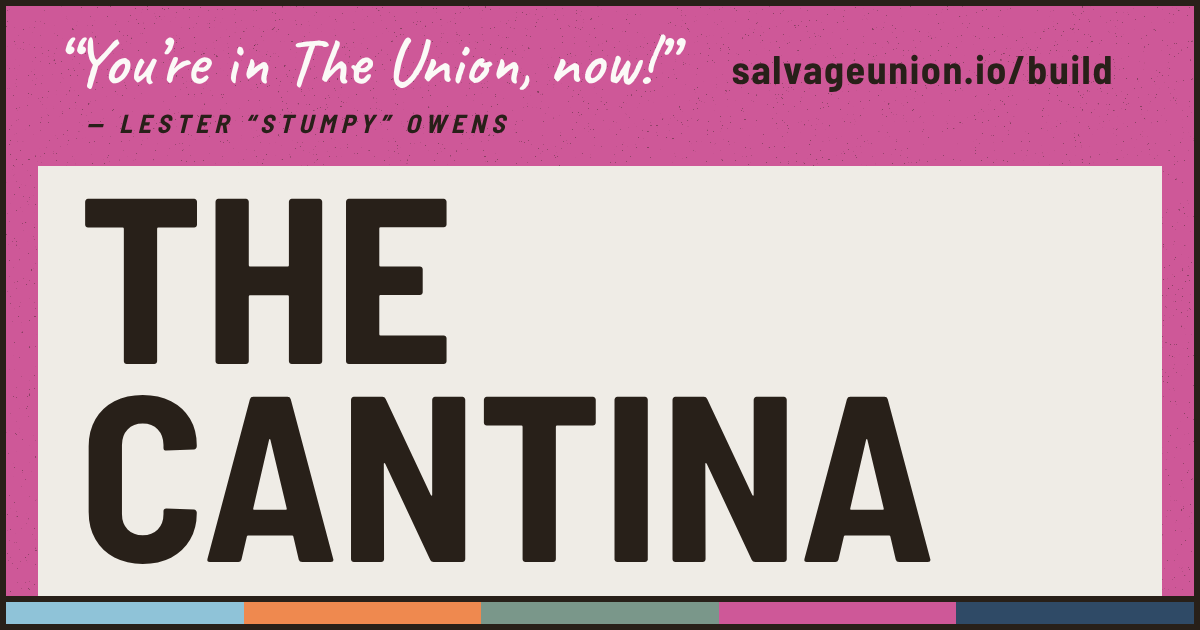
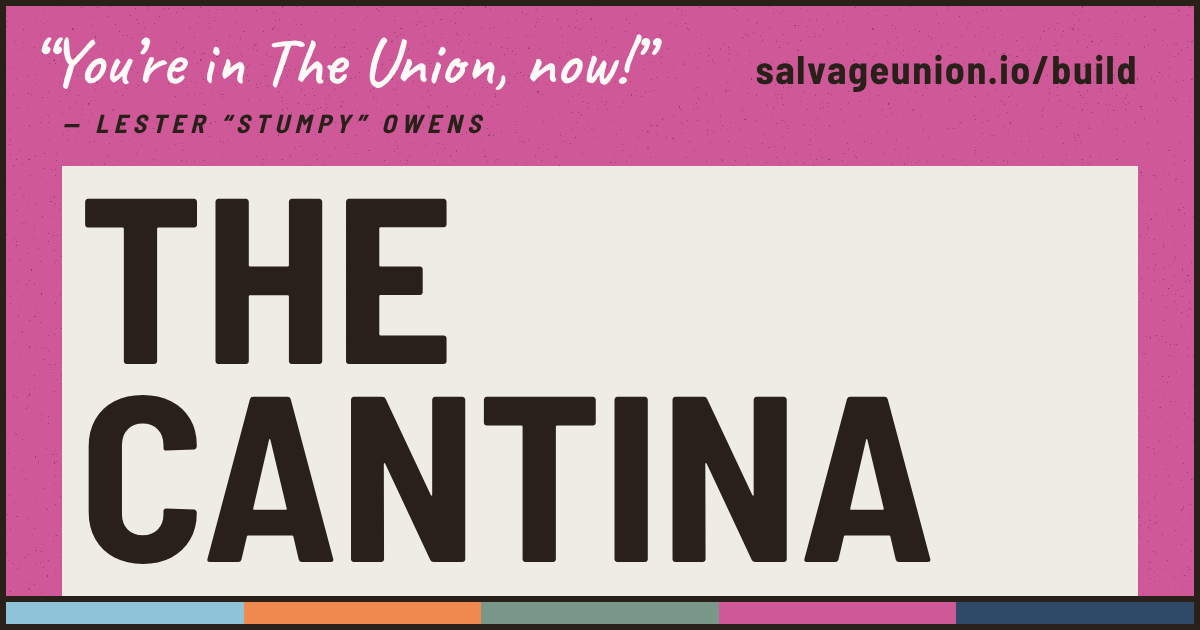
fix(srd,itun): brand previews share the entity previews' grid
OG_GUTTER and OG_NOTCH_INSET now live in ogCardText and both cards read
them: the notch, kicker, quote, credit and address sit on the same outer
edge as an entity card's notch, chips, cite and Union bar, and the
wordmark starts at the entity title's inset inside the notch.

Claude-Session: https://claude.ai/code/session_01K9NDAbp6WiFK1Lp9fWtFCp

diff --git a/packages/component-lib/src/components/compositions/BrandCard.tsx b/packages/component-lib/src/components/compositions/BrandCard.tsx
@@ -4,7 +4,7 @@ import { borderWidth, color, font, space, tracking, weight } from '../../design/
 import type { ChapterTone } from '../atoms/chapterBandColor'
 import { CHAPTER_BAND_COLOR } from '../atoms/chapterBandColor'
 import { Speckle } from '../atoms/Speckle'
-import { OG_CARD_HEIGHT, OG_CARD_WIDTH } from './ogCardText'
+import { OG_CARD_HEIGHT, OG_CARD_WIDTH, OG_GUTTER, OG_NOTCH_INSET } from './ogCardText'
 
 /**
  * BrandCard — the site's own link preview: the picture a link unfurls with
@@ -49,14 +49,6 @@ export type BrandCardProps = {
 /** The frame: twice the entity card's 3px, as `OgCard`'s. */
 const FRAME_WIDTH = `calc(${borderWidth.entity} * 2)`
 
-/**
- * The one text edge. The notch stands `space[32]` in from the frame; every
- * line on the card (the kicker or quote, its credit, the wordmark and, on the
- * right, the address) starts or ends `TEXT_INSET` inside the notch's edges, so
- * the band's lines and the notch's share a left edge and a right edge.
- */
-const TEXT_INSET = space[48]
-
 /** The chapter colours along the foot, in the book's order. */
 const FOOT_TONES = ['rules', 'pilot', 'mech', 'crawler', 'denizen'] as const
 
@@ -75,14 +67,19 @@ const CARD = {
   width: OG_CARD_WIDTH,
 } satisfies CSSProperties
 
-/** The band: the kicker on one line, the notch filling everything under it. */
+/**
+ * The band: the kicker on one line, the notch filling everything under it.
+ * It is set on the entity previews' grid (`OG_GUTTER`): the kicker, quote and
+ * credit start on the notch's side, as an entity card's chips and cite do,
+ * and the address ends on it, as the Union bar's address does.
+ */
 const BODY = {
   display: 'flex',
   flex: '1 1 auto',
   flexDirection: 'column',
   gap: space[24],
   minHeight: 0,
-  padding: `${space[24]} ${space[32]} 0`,
+  padding: `${space[24]} ${OG_GUTTER} 0`,
 } satisfies CSSProperties
 
 const KICKER = {
@@ -107,9 +104,9 @@ const NOTCH = {
   display: 'flex',
   flex: '1 1 auto',
   minHeight: 0,
-  // Set flush left on the card's text edge, not centred: a centred wordmark
-  // starts wherever its own width puts it, never on the kicker's edge.
-  paddingInline: TEXT_INSET,
+  // Set flush left at the notched title's inset, not centred: a centred
+  // wordmark starts wherever its own width puts it, never on the grid.
+  paddingInline: OG_NOTCH_INSET,
   // Caps sit low in their line box; this centres the ink, not the box.
   paddingBottom: space[24],
 } satisfies CSSProperties
@@ -120,7 +117,7 @@ const TITLE = {
   fontWeight: weight.extrabold,
   lineHeight: 0.84,
   // The face's side bearing grows with its size: pull the wordmark's ink back
-  // onto the edge the kicker's ink starts on.
+  // onto the inset an entity card's 120px title starts on.
   margin: '0 0 0 -0.03em',
   textTransform: 'uppercase',
 } satisfies CSSProperties
@@ -131,7 +128,6 @@ const KICKER_ROW = {
   display: 'flex',
   gap: space[24],
   justifyContent: 'space-between',
-  paddingInline: TEXT_INSET,
 } satisfies CSSProperties
 
 /** The wordmark under a quote, which stands taller than a kicker's one line. */

diff --git a/packages/component-lib/src/components/compositions/ogCardText.ts b/packages/component-lib/src/components/compositions/ogCardText.ts
@@ -1,4 +1,4 @@
-import { color } from '../../design/tokens'
+import { color, space } from '../../design/tokens'
 import { textBand } from '../referenceEntity/referenceEntityHelpers'
 
 /**
@@ -12,6 +12,17 @@ import { textBand } from '../referenceEntity/referenceEntityHelpers'
 /** The canvas: the size every unfurl draws a "large" card at. */
 export const OG_CARD_WIDTH = 1200
 export const OG_CARD_HEIGHT = 630
+
+/**
+ * The previews' one grid, shared by `OgCard` and `BrandCard` so every link
+ * preview sets its text on the same edges. `OG_GUTTER` is the outer edge,
+ * in from the frame: the notch's side, the small lines (chips, cite, kicker,
+ * quote) and, on the right, the address. `OG_NOTCH_INSET` is the inner edge:
+ * the notched title, that far inside the notch (`ChapterBand`'s og title
+ * padding, `--space-24`).
+ */
+export const OG_GUTTER = `calc(${space[48]} + ${space[8]})`
+export const OG_NOTCH_INSET = space[24]
 
 /**
  * One chip, label first, as the page's horizontal `Stat` draws it: `TL | 1`,

diff --git a/packages/component-lib/src/components/compositions/OgCard.tsx b/packages/component-lib/src/components/compositions/OgCard.tsx
@@ -12,6 +12,7 @@ import {
   footLineOf,
   OG_CARD_HEIGHT,
   OG_CARD_WIDTH,
+  OG_GUTTER,
   ogCardPrintedTitle,
   ogCardTitle,
   ogTitleSize,
@@ -70,7 +71,6 @@ import {
 
 /** The frame: twice the entity card's 3px, so it reads as 2px at 400px wide. */
 const FRAME_WIDTH = `calc(${borderWidth.entity} * 2)`
-const GUTTER = `calc(${space[48]} + ${space[8]})`
 
 const CARD = {
   backgroundColor: color.wkBg,
@@ -103,7 +103,7 @@ const BODY = {
   flexDirection: 'column',
   gap: space[20],
   minHeight: 0,
-  padding: `${space[28]} ${GUTTER}`,
+  padding: `${space[28]} ${OG_GUTTER}`,
 } satisfies CSSProperties
 
 /**
@@ -178,7 +178,7 @@ const BAR = {
   gap: space[16],
   isolation: 'isolate',
   justifyContent: 'space-between',
-  padding: `0 ${GUTTER}`,
+  padding: `0 ${OG_GUTTER}`,
   position: 'relative',
 } satisfies CSSProperties
 
